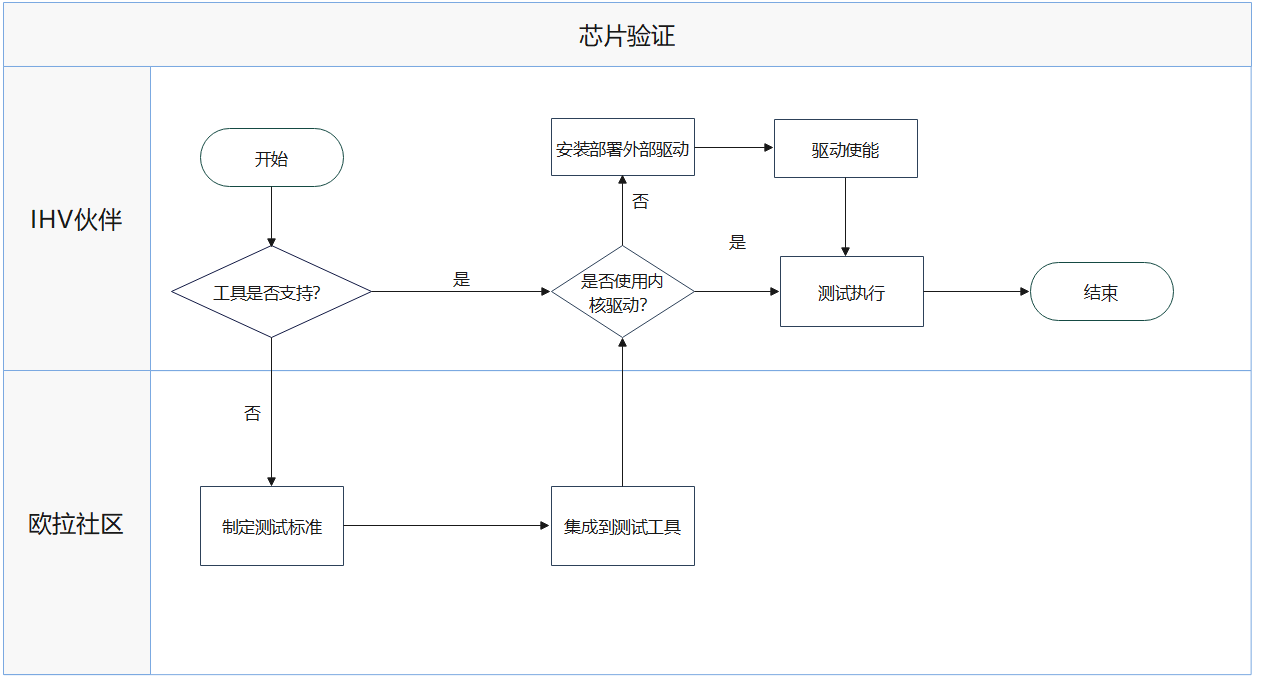
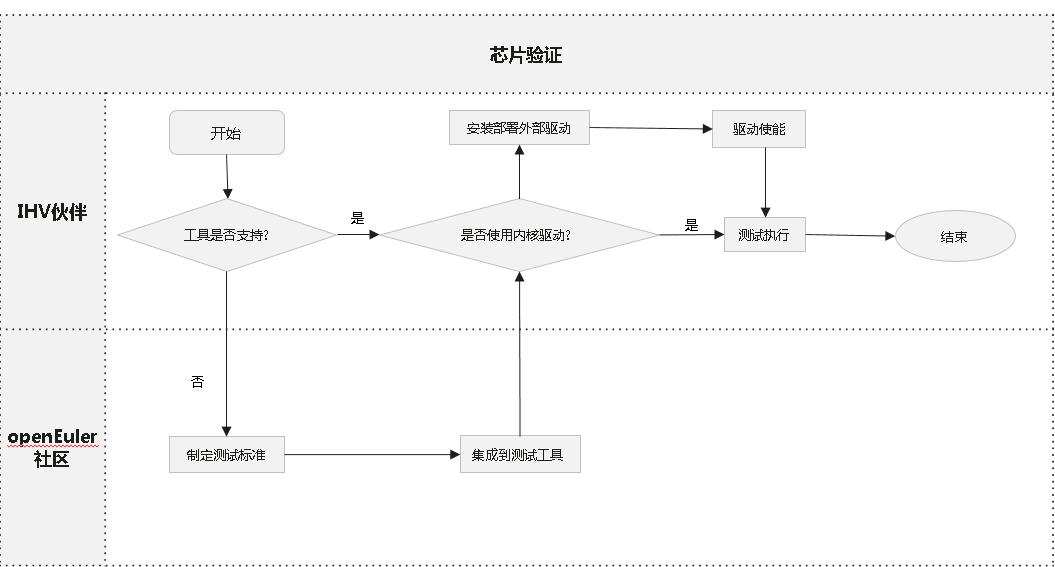
修改测试工具中的openEuler命名

diff --git a/README.md b/README.md
@@ -84,9 +84,9 @@ openEuler兼容性技术测评标准确认和发布的流程如下：
 
 | 技术测评对象      | 用例基线                  | 测试工具               | 测试交付件 |
 | :------------ | ------------------------- | ---------------------- | ---- |
-| OSV商用发行版 | [OSV商用发行版测试用例集](https://gitee.com/openeuler/oecp/blob/master/doc/) | [oecp](testing-tools/欧拉技术测评OSV操作系统测试工具oecp用户指南.md)       | 工具测试结果excel文件 + 社区测评结论邮件截图 |
-| ISV商用软件   | [ISV商用软件测试用例集](testing-standard/欧拉技术测评兼容性测试用例（ISV商用软件）.md)     | [lkp-tests](testing-tools/欧拉技术测评ISV商用软件测试工具lkp-tests用户指南.md) + [x2openEuler](testing-tools/欧拉技术测评ISV商用软件扫描工具x2openEuler用户指南.md)             | [测试报告word文件](https://gitee.com/whatamaze/compatibility-test/tree/master/templates) |
-| IHV整机和板卡 | [整机用例集+板卡测试用例集](testing-standard/欧拉技术测评兼容性测试用例（整机&板卡）.md) | [oec-hardware](testing-tools/欧拉技术测评IHV整机&板卡测试工具oec-hardware用户指南.md) | 工具pass/fail截图 + 测试日志 + [整机/板卡兼容性发布excel文件](https://gitee.com/openeuler/oec-hardware/tree/master/templates) |
+| OSV商用发行版 | [OSV商用发行版测试用例集](https://gitee.com/openeuler/oecp/blob/master/doc/) | [oecp](testing-tools/openEuler技术测评OSV操作系统测试工具oecp用户指南.md)       | 工具测试结果excel文件 + 社区测评结论邮件截图 |
+| ISV商用软件   | [ISV商用软件测试用例集](testing-standard/openEuler技术测评兼容性测试用例（ISV商用软件）.md)     | [lkp-tests](testing-tools/openEuler技术测评ISV商用软件测试工具lkp-tests用户指南.md) + [x2openEuler](testing-tools/openEuler技术测评ISV商用软件扫描工具x2openEuler用户指南.md)             | [测试报告word文件](https://gitee.com/whatamaze/compatibility-test/tree/master/templates) |
+| IHV整机和板卡 | [整机用例集+板卡测试用例集](testing-standard/openEuler技术测评兼容性测试用例（整机&板卡）.md) | [oec-hardware](testing-tools/openEuler技术测评IHV整机&板卡测试工具oec-hardware用户指南.md) | 工具pass/fail截图 + 测试日志 + [整机/板卡兼容性发布excel文件](https://gitee.com/openeuler/oec-hardware/tree/master/templates) |
 
 
 

diff --git a/testing-tools/openEuler技术测评ISV商用软件测试工具lkp-tests用户指南.md b/testing-tools/openEuler技术测评ISV商用软件测试工具lkp-tests用户指南.md
@@ -17,8 +17,8 @@
 [8 FAQ](#FAQ)
 
 # 简介
-为解决欧拉技术测评过程中涉及的ISV商用软件兼容性测试问题，特基于[《欧拉技术测评兼容性测试用例（ISV商用软件）》](../testing-standard/欧拉技术测评兼容性测试用例（ISV商用软件）.md) 集成了lkp-tests测试工具。
-此工具将根据《欧拉技术测评兼容性测试用例（ISV商用软件）》提取为11个自动化测试用例，分为构建测试、兼容性测试、性能测试和安全测试4个维度
+为解决openEuler技术测评过程中涉及的ISV商用软件兼容性测试问题，特基于[《openEuler技术测评兼容性测试用例（ISV商用软件）》](../testing-standard/openEuler技术测评兼容性测试用例（ISV商用软件）.md) 集成了lkp-tests测试工具。
+此工具将根据《openEuler技术测评兼容性测试用例（ISV商用软件）》提取为11个自动化测试用例，分为构建测试、兼容性测试、性能测试和安全测试4个维度
 
 # 环境要求
 |   项目    |                       要求                    |

diff --git a/testing-tools/openEuler技术测评IHV整机&板卡测试工具oec-hardware用户指南.md b/testing-tools/openEuler技术测评IHV整机&板卡测试工具oec-hardware用户指南.md
@@ -13,8 +13,8 @@
 
 # 简介
 
-为解决欧拉技术测评过程中涉及的整机和板卡兼容性测试问题，特基于[《欧拉技术测评兼容性测试用例（整机&板卡）》](../testing-standard/欧拉技术测评兼容性测试用例（整机&板卡）.md) 集成了oec-hardware测试工具。
-此工具将根据《欧拉技术测评兼容性测试用例（整机&板卡）》提取为58个自动化测试用例，分为整机测试用例集和板卡测试用例集
+为解决openEuler技术测评过程中涉及的整机和板卡兼容性测试问题，特基于[《openEuler技术测评兼容性测试用例（整机&板卡）》](../testing-standard/openEuler技术测评兼容性测试用例（整机&板卡）.md) 集成了oec-hardware测试工具。
+此工具将根据《openEuler技术测评兼容性测试用例（整机&板卡）》提取为58个自动化测试用例，分为整机测试用例集和板卡测试用例集
 
 # 环境要求
 
